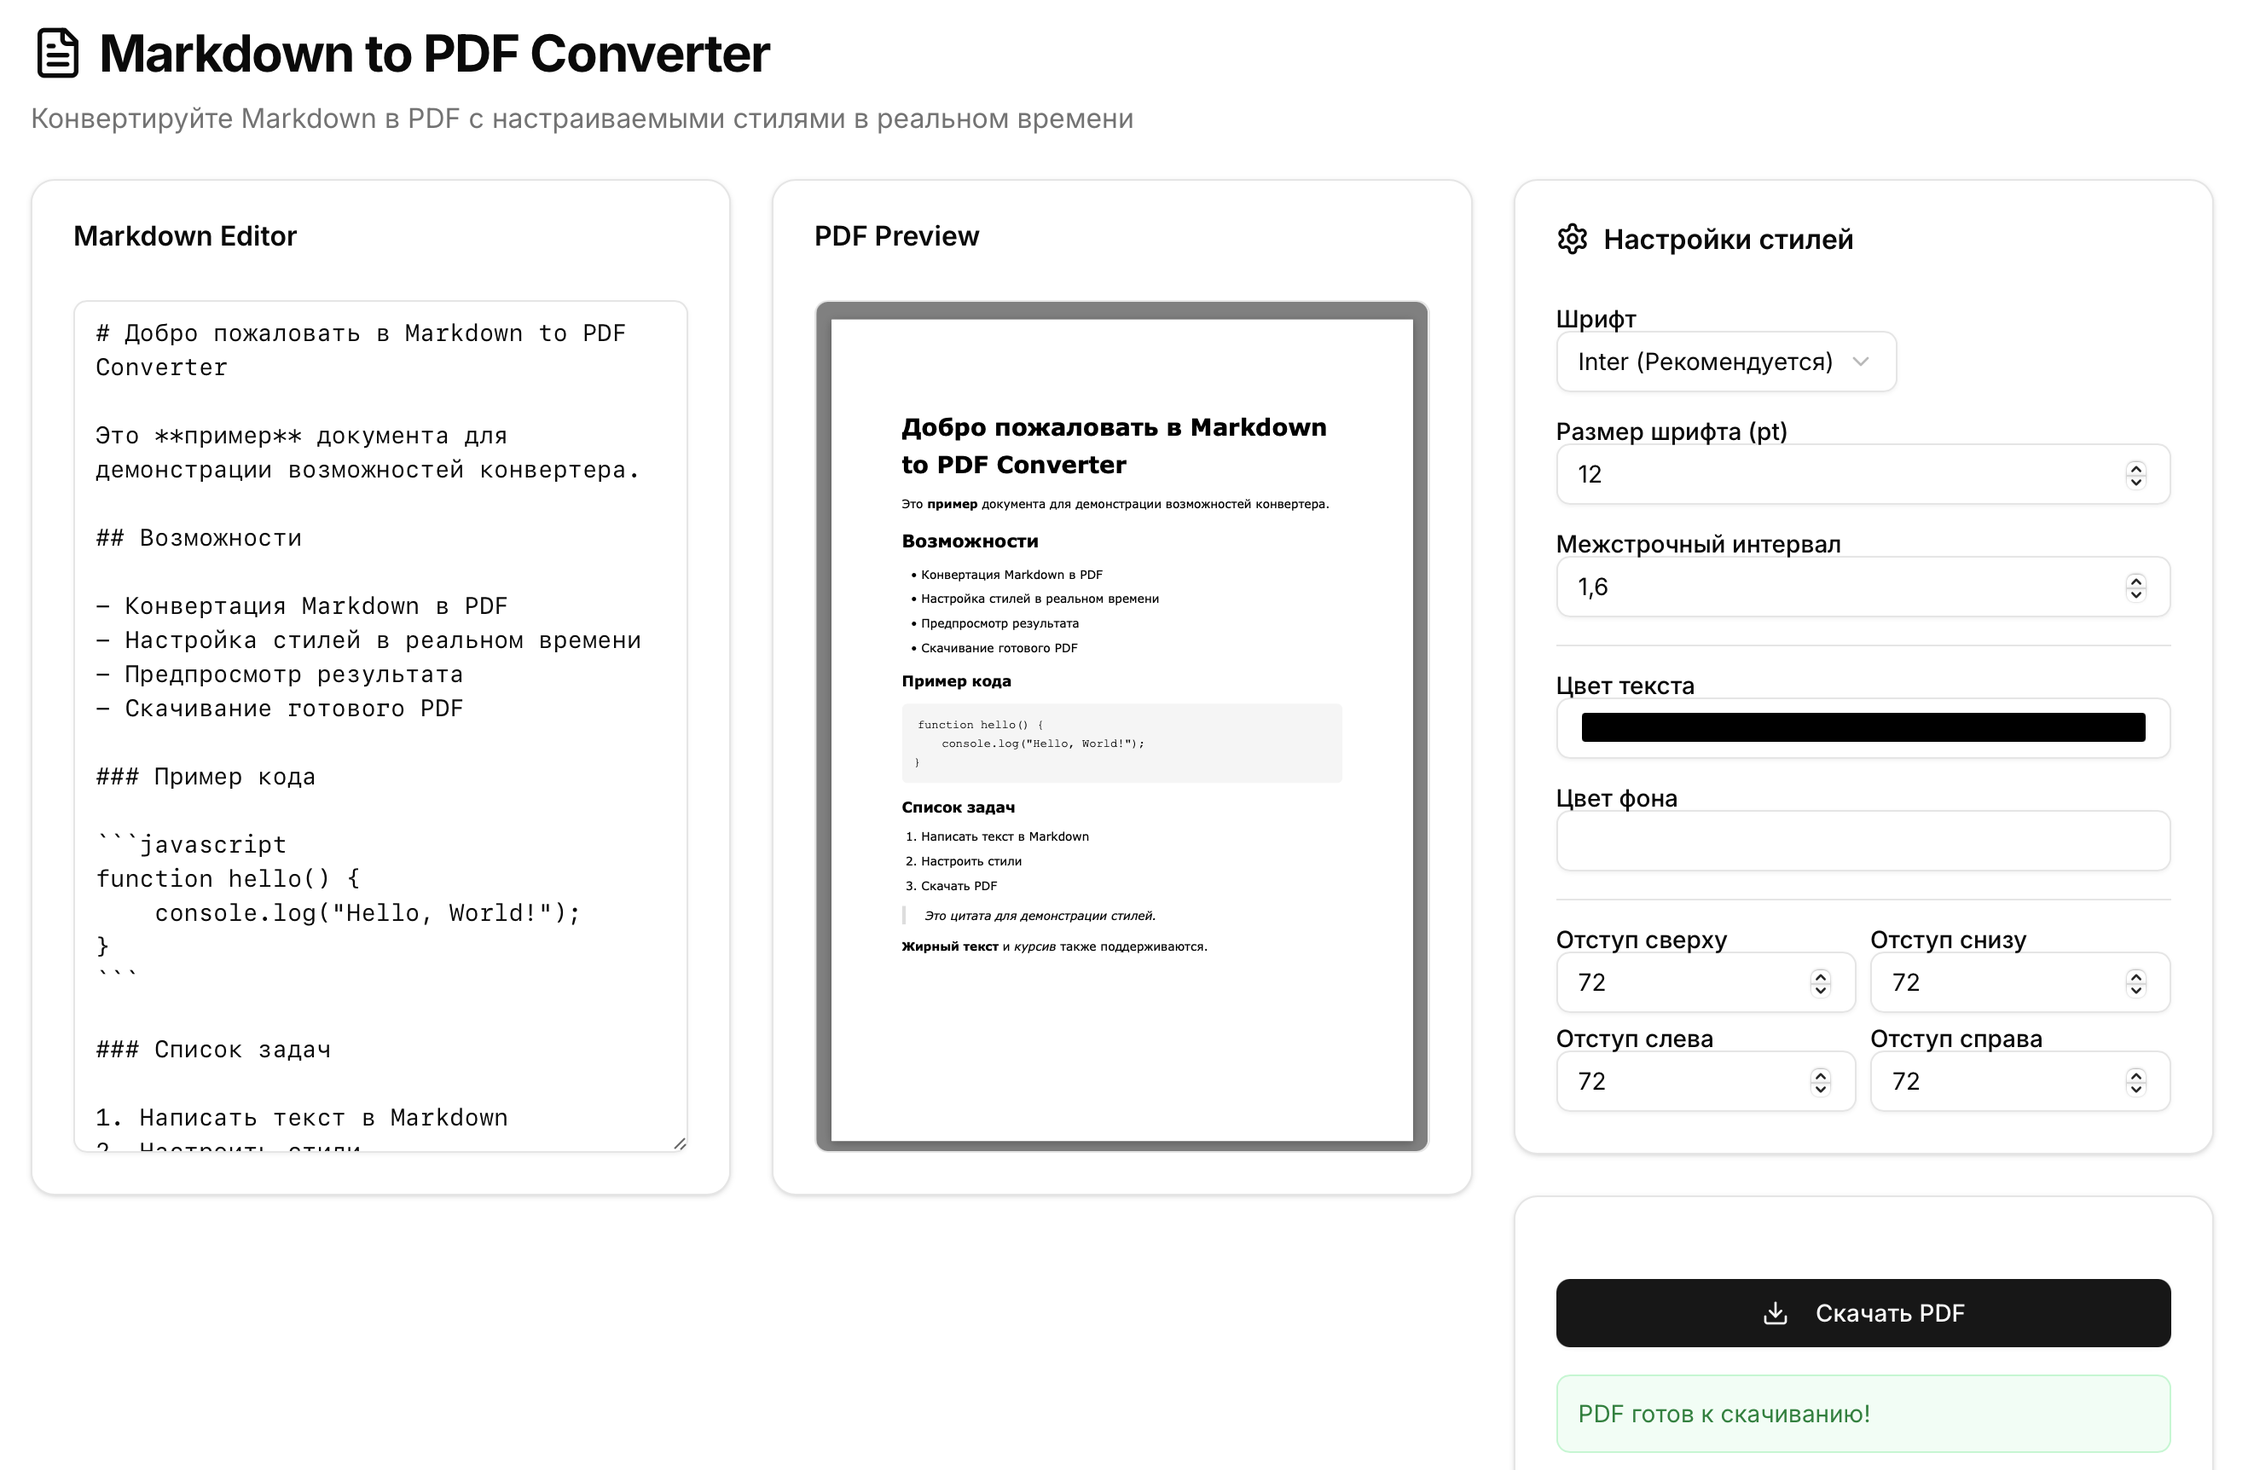
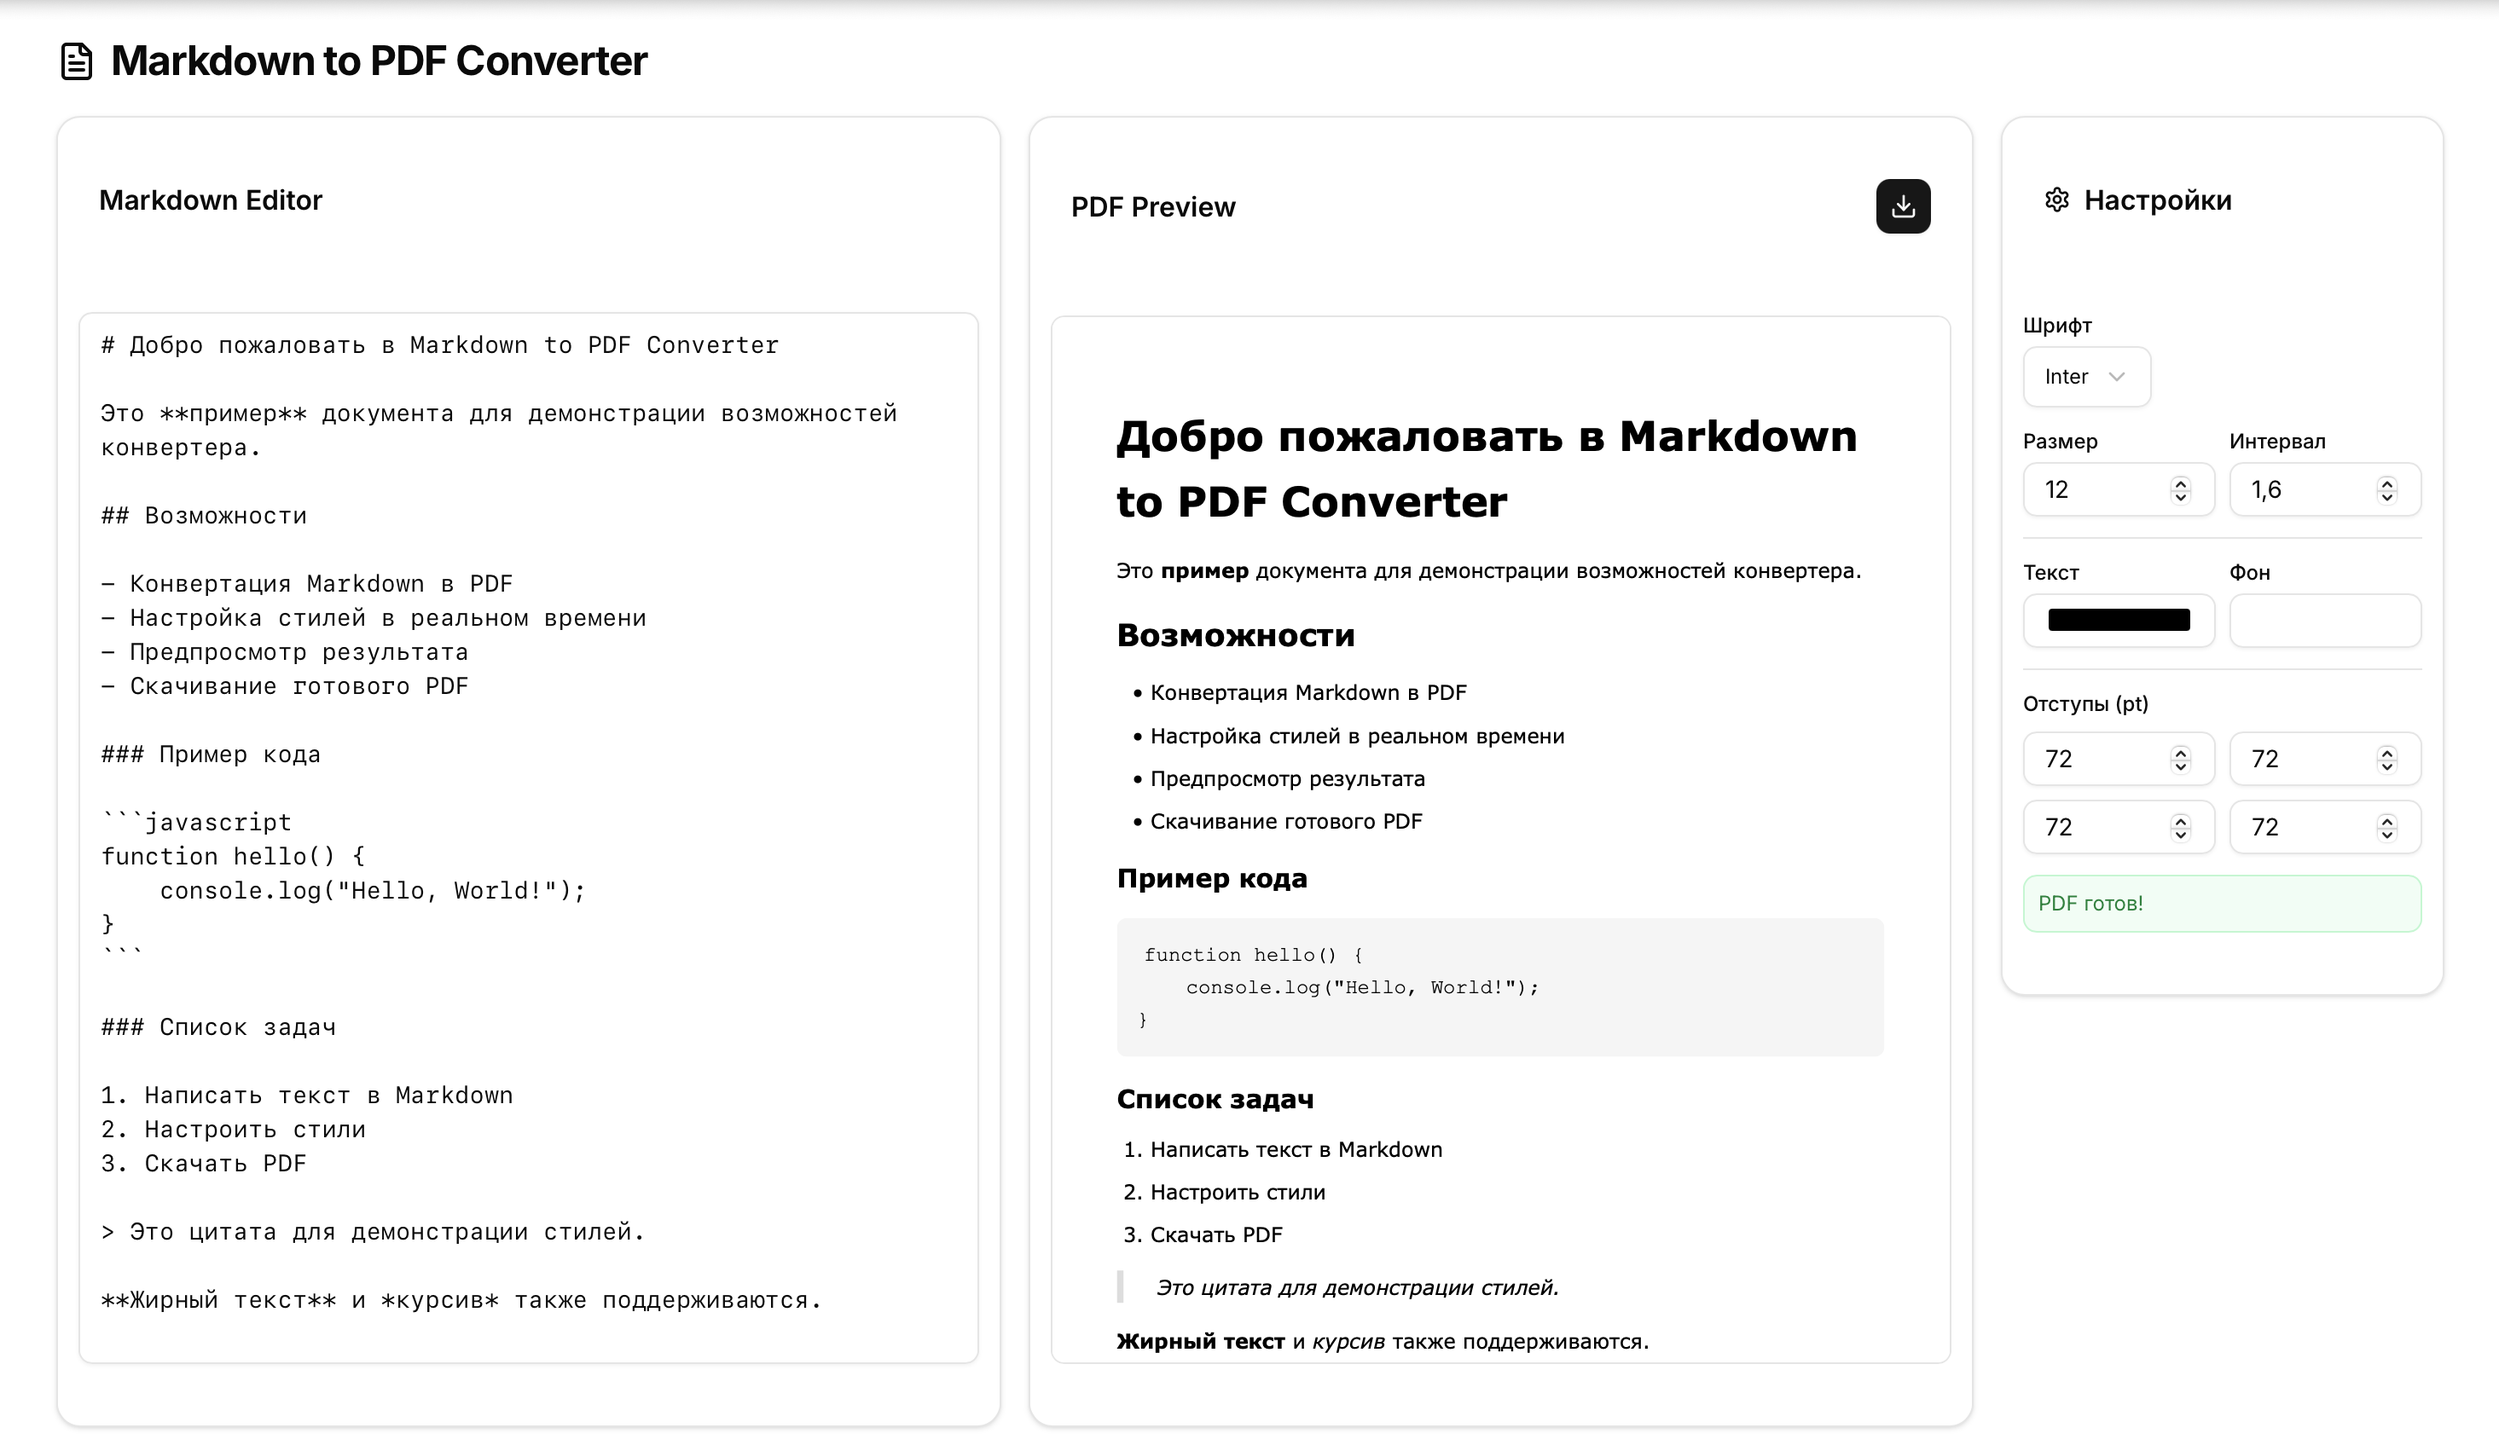
feat: add docker support

diff --git a/README.md b/README.md
@@ -7,6 +7,16 @@
 
 ## Требования
 
+### Вариант 1: Docker (рекомендуется)
+- Docker
+- Docker Compose
+
+На macOS можно установить через Homebrew:
+```bash
+brew install docker docker-compose
+```
+
+### Вариант 2: Локальная установка
 - Python 3.8+
 - Node.js 16+
 - macOS, Linux или Windows (с bash)
@@ -56,7 +66,35 @@ brew install python3 node
 
 ## Быстрый старт
 
-### Первый запуск (настройка)
+### Вариант 1: Docker (проще всего)
+
+Запуск одной командой (рекомендуется):
+
+```bash
+./docker-start.sh
+```
+
+Или вручную:
+
+```bash
+docker-compose up
+```
+
+Приложение будет доступно по адресу http://localhost:5173
+
+Для остановки нажмите `Ctrl+C`, затем:
+```bash
+docker-compose down
+```
+
+Для пересборки после изменений:
+```bash
+docker-compose up --build
+```
+
+### Вариант 2: Локальная установка
+
+#### Первый запуск (настройка)
 
 ```bash
 ./setup.sh
@@ -67,7 +105,7 @@ brew install python3 node
 - Создаст виртуальное окружение для Python
 - Установит все необходимые зависимости для backend и frontend
 
-### Запуск приложения
+#### Запуск приложения
 
 ```bash
 ./start.sh
@@ -77,7 +115,7 @@ brew install python3 node
 
 Для остановки нажмите `Ctrl+C` - это автоматически остановит оба сервера.
 
-### Ручной запуск (опционально)
+#### Ручной запуск (опционально)
 
 Если хотите запускать backend и frontend отдельно:
 
